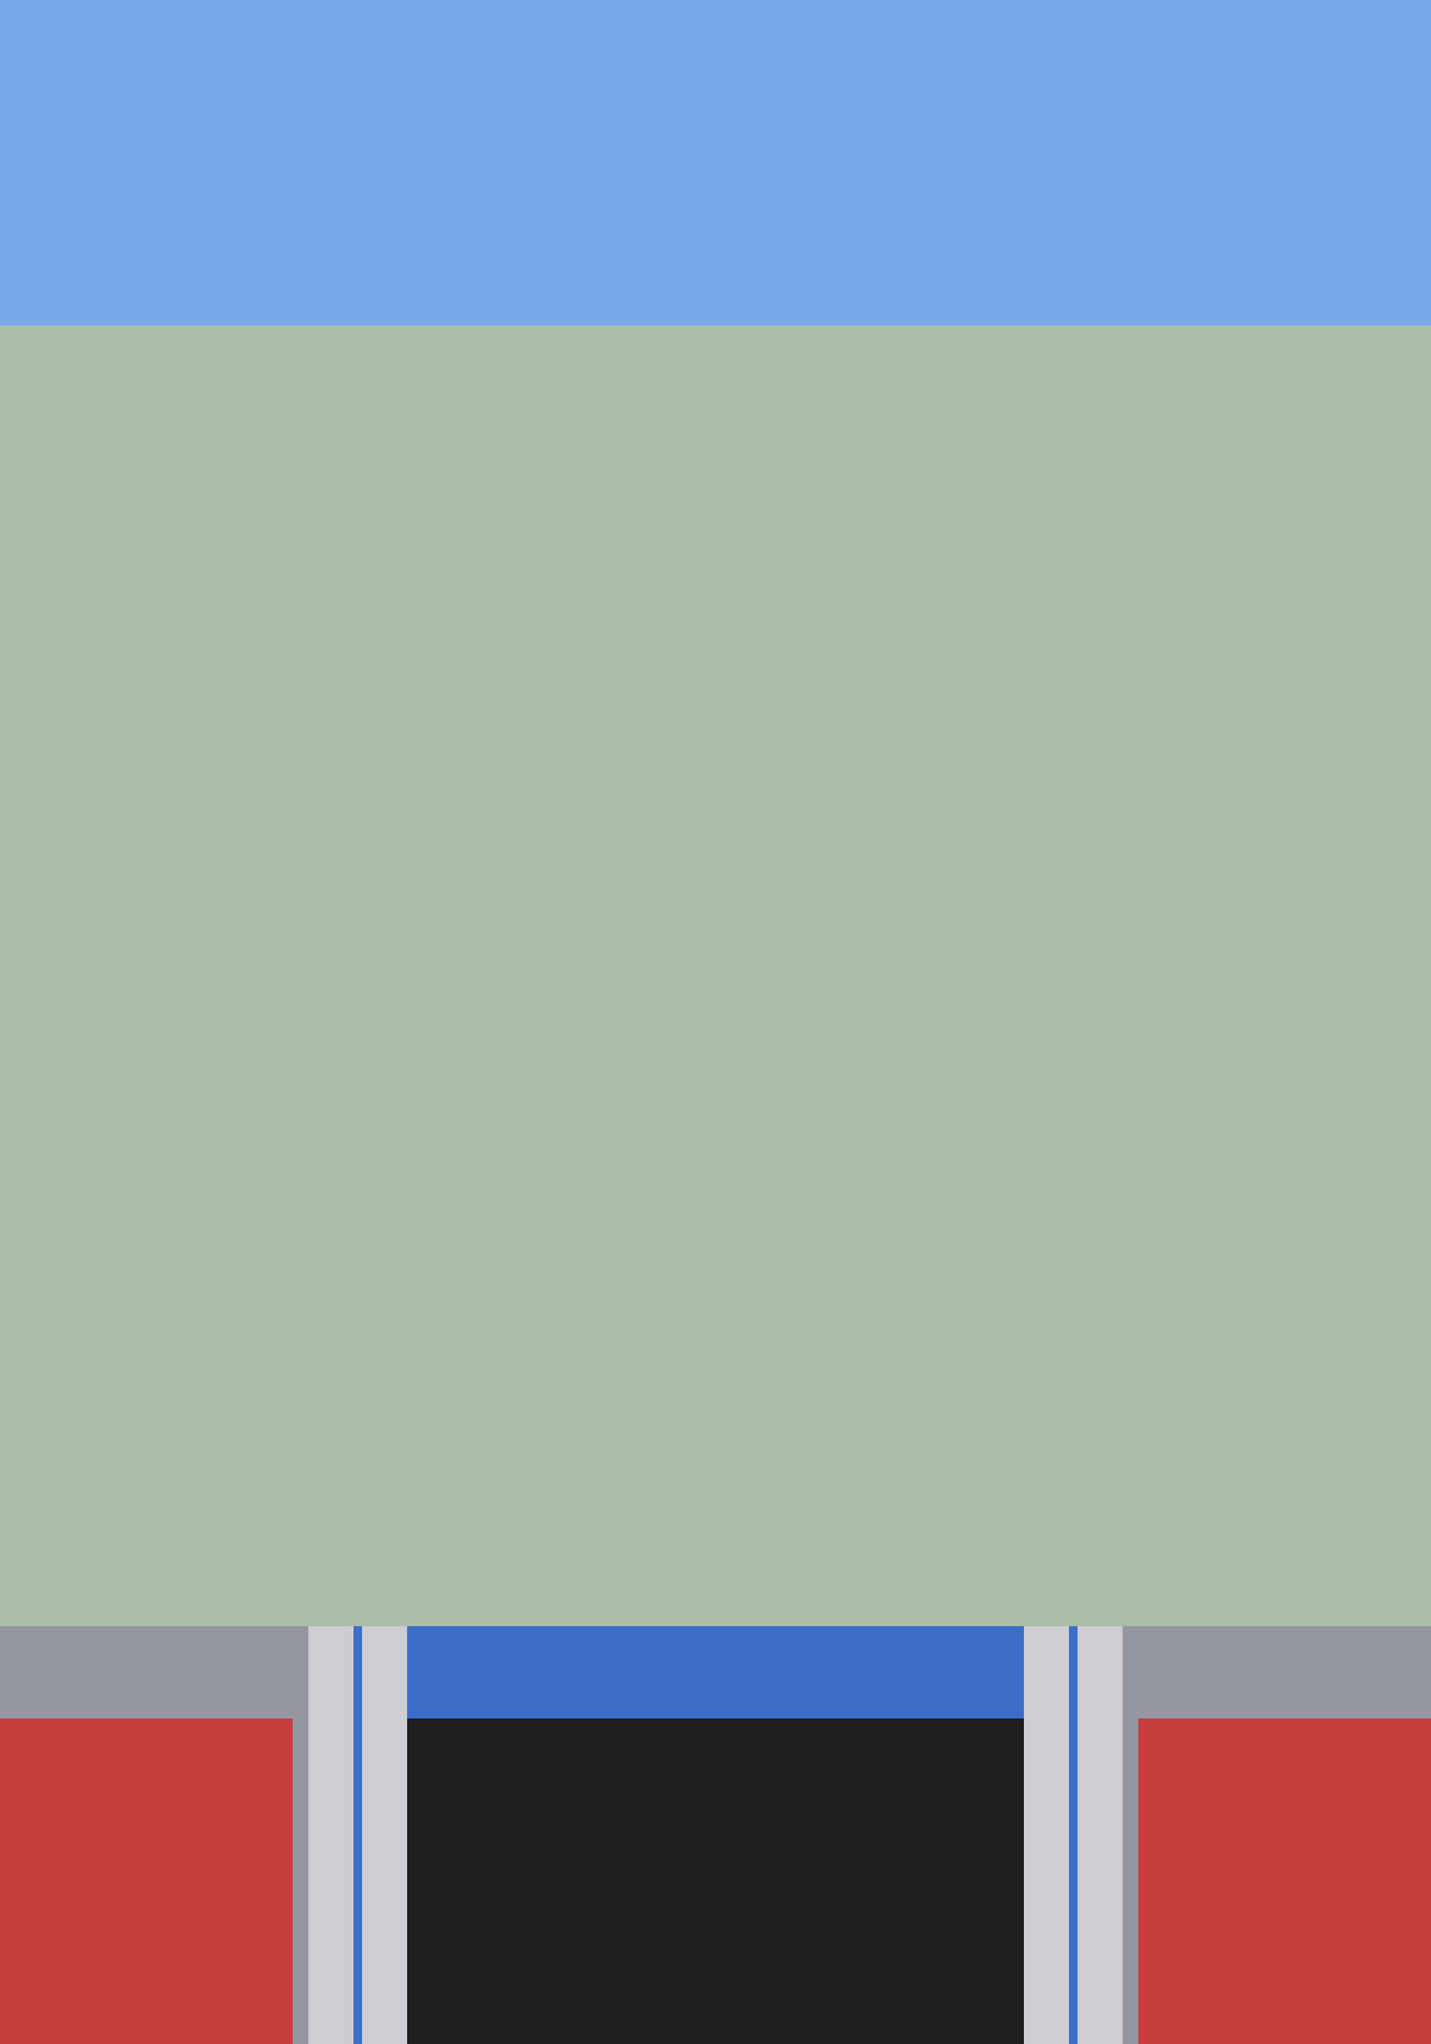
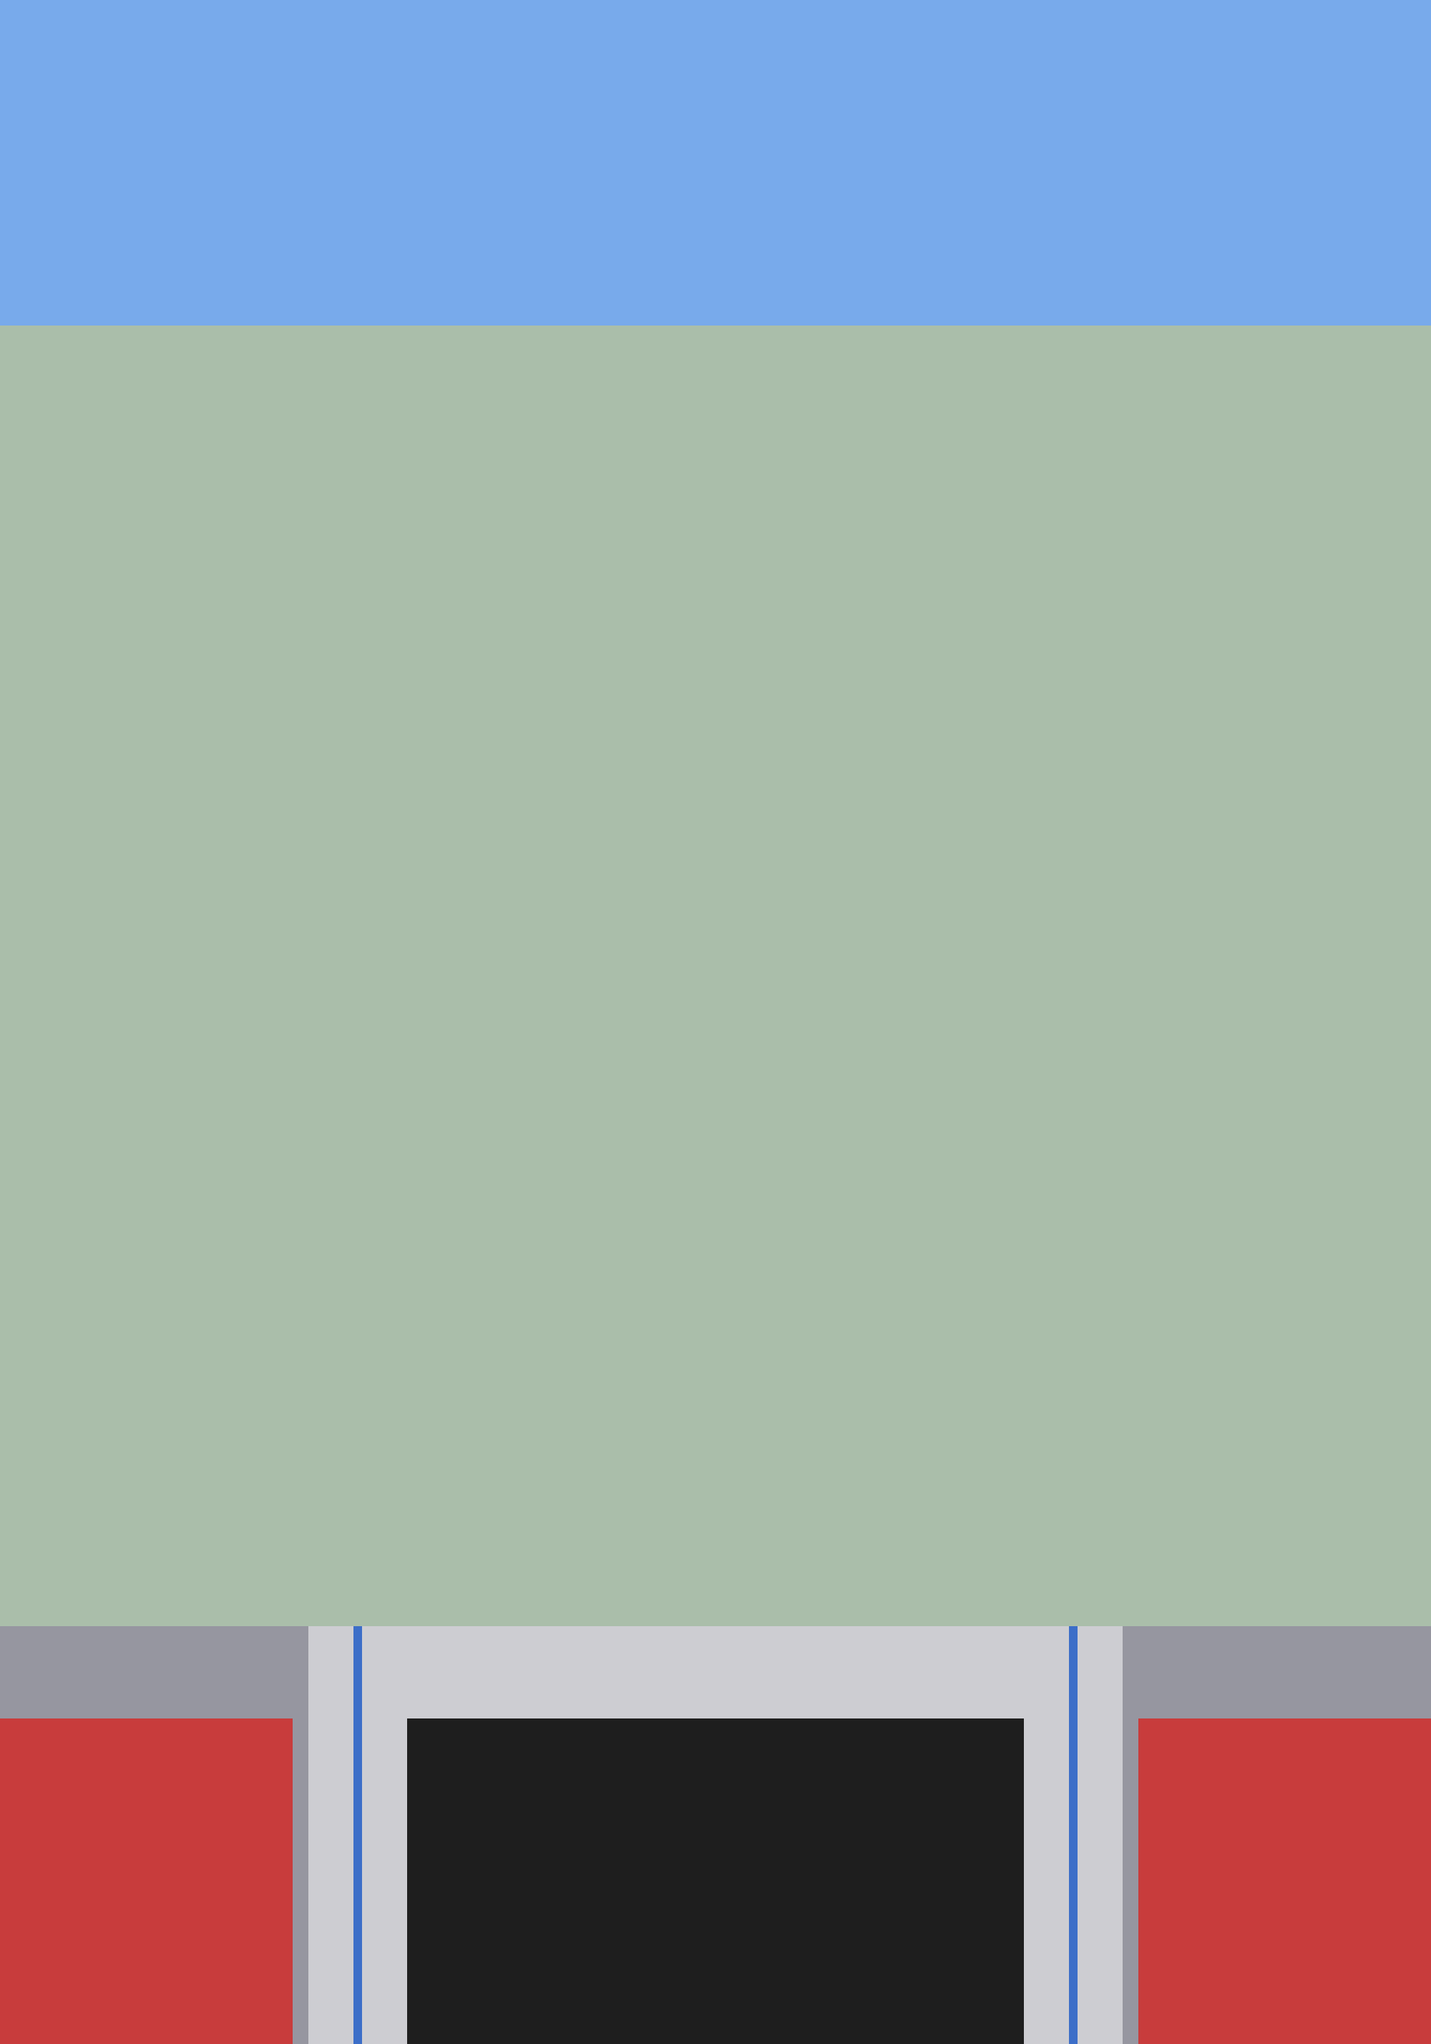
Blade top cladding: 1 cm aluminium, top end only (commit 17)
BLADE_TOP_CLAD = CLAD_EXT (1.0 cm) [MCNP], Kyle confirmed 2026-07-31. Derived
from CLAD_EXT, never written as 1.0: it is the same physical centimetre as the
fuel plates' unfueled extension, so decoupling them later is a one-line change.

Material is aluminum_structure — the same object the control-element guide
plates and sliders already use, since the blade clad is part of that assembly.
It inherits c_Al27 at 330.7 K automatically. NOTE FOR TALLIES AND FIGURES: any
tally or figure keyed on aluminum_structure now includes the blade top clad.

Side and bottom cladding remain ABSENT BY CONFIRMATION, not omission:
ABSORBER_SIDE_WATER (0.005 cm film each side) and the [-31,-30] slot water are
unchanged.

f = 1.0 boundary: no change required, and none made. It is the B4C that touches
z = +90 when fully withdrawn, not the aluminium; the clad extends past the model
top and is clipped away exactly as the cap already was. B4C stays 60 cm,
ROD_TRAVEL stays 60, and the existing pin

  -HALF_Z + 1.0 * ROD_TRAVEL + BLADE_LENGTH == CORE_TOP

is correct as written and untouched.

Geometry at checkpoints, verified against the specification:
  f = 0.0     B4C [-30,+30]   clad [+30,+31]   cap [+31,+45]
  f = 0.5     B4C [  0,+60]   clad [+60,+61]   cap [+61,+75]
  f = 0.98333 B4C [+29,+89]   clad [+89,+90]   cap clipped
  f = 0.99    B4C [+29.4,+89.4] clad [+89.4,+90] cap clipped
  f = 1.0     B4C [+30,+90]   clad clipped     cap clipped
Bottom end at all f: water, no clad, as built.
[…]

Changed region(s): [[0.279, 0.7788, 0.713, 0.8411]]

diff --git a/model/geometry.py b/model/geometry.py
@@ -44,15 +44,17 @@ Control blade model — fixed-length sliding absorber:
     withdrawn_fraction f in [0, 1]:
         z_bot = -30 + f * 60   → f=0: -30,  f=1: +30
         z_top = z_bot + 60     → f=0: +30,  f=1: +90 (= CORE_TOP at f=1)
-    b4c fills the absorber-slot x/y band for z in [z_bot, z_top]. An ENDBOX_HEIGHT
-    (14 cm) homogenized (end_box_homog) end-box cap rides above the blade in
-    the blade's own slot footprint, with its bottom at
-    max(z_top, HALF_PLATE_Z) — see the A4 note in the control-element section.
-    At f=0 the cap sits at [+31,+45], COPLANAR with the surrounding end-boxes
-    (2026-07-20 decision), and the 1 cm slot band [+30,+31] between the blade
-    top and the cap is core coolant water. At f=1 the blade top coincides with
-    CORE_TOP (z_top == +90), so the cap is pushed entirely out of the model and
-    is NOT created — the blade itself fills the slot to the top.
+    b4c fills the absorber-slot x/y band for z in [z_bot, z_top]. A
+    BLADE_TOP_CLAD (1 cm) aluminum clad rides directly on the B4C (top end
+    only — side and bottom clad are absent by confirmation), and an
+    ENDBOX_HEIGHT (14 cm) homogenized (end_box_homog) end-box cap rides on
+    the CLAD. Both fill the slot footprint and clip at CORE_TOP. At f=0 the
+    stack is B4C [-30,+30], clad [+30,+31], cap [+31,+45] — the cap COPLANAR
+    with the surrounding end-boxes falls out of BLADE_TOP_CLAD == CLAD_EXT
+    (2026-07-31; supersedes the A4 Option B water band, which the clad now
+    fills). At f=1 the B4C top coincides with CORE_TOP (z_top == +90) — it is
+    the B4C, not the aluminum, that touches the boundary — and clad and cap
+    are clipped entirely out of the model.
     Plate/clad, structural and channel cells run the full plate height
     z=[-31, +31]; only the fuel meat is restricted to z=[-30, +30].
     End-box/water cells cover z outside [-31, +31].
@@ -202,6 +204,16 @@ assert abs(HALF_PLATE_Z - (HALF_Z + CLAD_EXT)) < 1e-12, \
 
 BLADE_LENGTH     = 60.0    # cm — rigid absorber blade (fixed length, translates in z)
 ROD_TRAVEL       = 60.0    # cm — full stroke
+
+# Blade TOP cladding — aluminum riding on the B4C, part of the blade assembly.
+# [MCNP] Kyle confirmed 2026-07-31: 1.0 cm, TOP END ONLY (side and bottom clad
+# are absent by confirmation, not omission). Derived from CLAD_EXT because it
+# is the same physical 1 cm as the fuel plates' unfueled extension — if Kyle
+# later decouples them, this is a one-line change. Never written as 1.0.
+# The B4C itself stays BLADE_LENGTH = 60 and ROD_TRAVEL stays 60: it is the
+# B4C that touches CORE_TOP at f=1, and the clad above it clips away at the
+# model boundary exactly as the cap does.
+BLADE_TOP_CLAD   = CLAD_EXT   # 1.0 cm [MCNP]
 CORE_TOP         = +90.0   # cm — vacuum boundary; COINCIDES with the fully-withdrawn
                             # (f=1) blade top (z_top = -30 + 60 + 60 = +90). No cap above.
 CORE_BOTTOM      = -90.0   # cm — vacuum boundary; symmetric with CORE_TOP
@@ -608,10 +620,10 @@ def make_standard_fuel_element(elem_id, element_id=None, zoned=False):
 #   b4c fills the absorber-slot x/y band for z in [z_bot, z_top] across the full
 #   model height. Below z_bot, water fills the slot down to the plate bottom
 #   (-31) — the blade never dips below z=-30, so the lower end-box/water are
-#   uniform material with no reserved slot at all. Above z_top, the slot's own
-#   material is region-appropriate (coolant up to +31 if the blade is below
-#   it, then the 14 cm cap, then water to CORE_TOP); at f=1, z_top == CORE_TOP
-#   so that complement is zero-measure (no cap).
+#   uniform material with no reserved slot at all. Above z_top the assembly
+#   stack rides with the blade: BLADE_TOP_CLAD (1 cm) aluminum clad, then the
+#   14 cm cap riding on the clad, then water to CORE_TOP — each clipped at
+#   CORE_TOP; at f=1, z_top == CORE_TOP so clad and cap are both clipped away.
 #   All guide/slider/fuel/channel cells are bounded to the PLATE height
 #   z=[-31, +31]; only the fuel meat stops at z=[-30, +30]; end-box/water cells
 #   fill z outside [-31, +31].
@@ -954,40 +966,63 @@ def make_control_fuel_element(elem_id, withdrawn_fraction=0.0,
     #
     # No lower-side counterpart is needed: blade_z_bot is always >= -HALF_Z
     # (asserted above), so the blade never reaches the lower end-box/water.
+    #
+    # ── Blade top clad + moving cap (commit 17, 2026-07-31) ────────────────
+    # A BLADE_TOP_CLAD (1 cm) aluminum clad rides directly on the B4C, and the
+    # ENDBOX_HEIGHT (14 cm) end_box_homog cap rides on the CLAD, not the B4C.
+    # Both fill the full slot footprint and both clip at CORE_TOP:
+    #   f = 0.0   B4C [-30,+30]  clad [+30,+31]  cap [+31,+45]
+    #   f = 0.5   B4C [  0,+60]  clad [+60,+61]  cap [+61,+75]
+    #   f = 1.0   B4C [+30,+90]  clad clipped    cap clipped
+    # Clad is partially clipped for f > 59/60, gone at f = 1.0; the cap is
+    # fully gone for f >= 59/60 (cap bottom z_top + 1 reaches CORE_TOP).
+    #
+    # The Option B max(z_top, HALF_PLATE_Z) cap-floor guard (A4) is DROPPED,
+    # not kept as a dead branch: the cap bottom is now z_top + BLADE_TOP_CLAD
+    # = HALF_Z + f*ROD_TRAVEL + CLAD_EXT = 31 + 60f >= 31 for all f >= 0, with
+    # equality at f = 0 — the coplanarity the guard protected now falls out of
+    # the arithmetic (BLADE_TOP_CLAD == CLAD_EXT is exactly the 1 cm the A4
+    # water band used to fill). The assert below keeps the invariant loud if
+    # BLADE_TOP_CLAD is ever decoupled from CLAD_EXT and shrunk.
     if z_top < CORE_TOP:
-        cap_bot_z = max(z_top, HALF_PLATE_Z)
-        # Cap top is always >= ENDBOX_ABOVE_TOP, so the water above the cap
-        # never encroaches on the end-box band [+31,+45].
-        assert cap_bot_z + ENDBOX_HEIGHT >= ENDBOX_ABOVE_TOP, (
-            f"ctrl{elem_id}: cap top {cap_bot_z + ENDBOX_HEIGHT:.2f} < "
-            f"ENDBOX_ABOVE_TOP {ENDBOX_ABOVE_TOP} — cap would not clear the "
-            f"end-box band")
-        blade_cap_bot = openmc.ZPlane(z0=cap_bot_z)
-        blade_cap_top = openmc.ZPlane(z0=min(cap_bot_z + ENDBOX_HEIGHT, CORE_TOP))
-
-        # Coolant in the slot between the blade top and the cap floor. Empty
-        # (zero-measure) whenever the blade has been withdrawn past +31.
-        if cap_bot_z > z_top:
-            cells.append(openmc.Cell(
-                name=f'ctrl{elem_id}_slot_b_water_under_cap', fill=water_core,
-                region=slot_b & +blade_z_top & -blade_cap_bot))
-            cells.append(openmc.Cell(
-                name=f'ctrl{elem_id}_slot_t_water_under_cap', fill=water_core,
-                region=slot_t & +blade_z_top & -blade_cap_bot))
-
+        blade_clad_top = openmc.ZPlane(
+            z0=min(z_top + BLADE_TOP_CLAD, CORE_TOP))
         cells.append(openmc.Cell(
-            name=f'ctrl{elem_id}_blade_cap_slot_b', fill=end_box_homog,
-            region=slot_b & +blade_cap_bot & -blade_cap_top))
+            name=f'ctrl{elem_id}_blade_clad_slot_b', fill=aluminum,
+            region=slot_b & +blade_z_top & -blade_clad_top))
         cells.append(openmc.Cell(
-            name=f'ctrl{elem_id}_blade_cap_slot_t', fill=end_box_homog,
-            region=slot_t & +blade_cap_bot & -blade_cap_top))
-        if blade_cap_top.z0 < CORE_TOP:
+            name=f'ctrl{elem_id}_blade_clad_slot_t', fill=aluminum,
+            region=slot_t & +blade_z_top & -blade_clad_top))
+
+        if blade_clad_top.z0 < CORE_TOP:
+            cap_bot_z = blade_clad_top.z0   # cap rides on the clad
+            assert cap_bot_z >= HALF_PLATE_Z, (
+                f"ctrl{elem_id}: cap bottom {cap_bot_z:.2f} < HALF_PLATE_Z "
+                f"{HALF_PLATE_Z} — BLADE_TOP_CLAD no longer reaches the "
+                f"end-box floor at full insertion (decoupled from CLAD_EXT?)")
+            # Cap top is always >= ENDBOX_ABOVE_TOP, so the water above the
+            # cap never encroaches on the end-box band [+31,+45].
+            assert cap_bot_z + ENDBOX_HEIGHT >= ENDBOX_ABOVE_TOP, (
+                f"ctrl{elem_id}: cap top {cap_bot_z + ENDBOX_HEIGHT:.2f} < "
+                f"ENDBOX_ABOVE_TOP {ENDBOX_ABOVE_TOP} — cap would not clear "
+                f"the end-box band")
+            # Reuse blade_clad_top as the cap floor — one plane, no coincident
+            # duplicate surface.
+            blade_cap_top = openmc.ZPlane(
+                z0=min(cap_bot_z + ENDBOX_HEIGHT, CORE_TOP))
             cells.append(openmc.Cell(
-                name=f'ctrl{elem_id}_water_above_cap_slot_b', fill=water,
-                region=slot_b & +blade_cap_top & -_z_model_top))
+                name=f'ctrl{elem_id}_blade_cap_slot_b', fill=end_box_homog,
+                region=slot_b & +blade_clad_top & -blade_cap_top))
             cells.append(openmc.Cell(
-                name=f'ctrl{elem_id}_water_above_cap_slot_t', fill=water,
-                region=slot_t & +blade_cap_top & -_z_model_top))
+                name=f'ctrl{elem_id}_blade_cap_slot_t', fill=end_box_homog,
+                region=slot_t & +blade_clad_top & -blade_cap_top))
+            if blade_cap_top.z0 < CORE_TOP:
+                cells.append(openmc.Cell(
+                    name=f'ctrl{elem_id}_water_above_cap_slot_b', fill=water,
+                    region=slot_b & +blade_cap_top & -_z_model_top))
+                cells.append(openmc.Cell(
+                    name=f'ctrl{elem_id}_water_above_cap_slot_t', fill=water,
+                    region=slot_t & +blade_cap_top & -_z_model_top))
 
     # ── 17-plate fuel follower (active zone only) ───────────────────────────
 
@@ -1721,11 +1756,13 @@ def _run_point_checks(geom, f):
 def _run_blade_slot_checks(geom, f):
     """Point-containment assertions down a control element's absorber slot.
 
-    This is the A4 (Option B) check. At full insertion the blade top is at +30
-    but the end-box floor is at +31, so the slot must read:
-        blade -> 1 cm coolant -> 14 cm cap (coplanar at [+31,+45]) -> water.
-    Once the blade is withdrawn past +31 the coolant band closes up and the cap
-    sits directly on the blade top again.
+    Blade assembly stack (commit 17): B4C, then BLADE_TOP_CLAD (1 cm) aluminum
+    riding on it, then the 14 cm cap riding on the clad, then water — clad and
+    cap clipped at CORE_TOP. At full insertion the slot must read:
+        blade -> 1 cm aluminum clad [+30,+31] -> 14 cm cap (coplanar at
+        [+31,+45]) -> water.
+    The clad band is the old A4 Option B water band — the fig3 defect — and
+    must now return aluminum, not water.
     """
     row, col = _first_position('C')          # first control element (C2)
     ex, ey = _lattice_center(row, col)
@@ -1740,18 +1777,18 @@ def _run_blade_slot_checks(geom, f):
     z_top = z_bot + BLADE_LENGTH
 
     def want_at(z):
-        """Material the slot should carry at height z, per the A4 resolution."""
+        """Material the slot should carry at height z (mirrors the builder)."""
         if z < z_bot:
             return water_core          # slot below the blade, down to −31
         if z < z_top:
             return b4c                 # the blade itself
         if z >= CORE_TOP:
             return None
-        cap_bot = max(z_top, HALF_PLATE_Z)
-        if z < cap_bot:
-            return water_core          # A4: coolant between blade top and cap
-        if z < min(cap_bot + ENDBOX_HEIGHT, CORE_TOP):
-            return end_box_homog       # the 14 cm cap
+        clad_top = min(z_top + BLADE_TOP_CLAD, CORE_TOP)
+        if z < clad_top:
+            return aluminum            # blade top clad riding on the B4C
+        if z < min(clad_top + ENDBOX_HEIGHT, CORE_TOP):
+            return end_box_homog       # the 14 cm cap riding on the clad
         return water                   # bulk water above the cap
 
     probes = [-31.0 + CLAD_EXT / 2.0, -HALF_Z / 2.0, 0.0, HALF_Z / 2.0,
@@ -1767,15 +1804,22 @@ def _run_blade_slot_checks(geom, f):
         assert got == want.name, \
             f"f={f}: absorber slot at z={z} is '{got}', expected '{want.name}'"
 
-    # A4 explicitly: at full insertion the cap must be coplanar with the
-    # surrounding end-boxes, and the 1 cm band below it must be coolant.
+    # Commit 17 explicitly: at full insertion the band [+30,+31] must be the
+    # aluminum top clad (the fig3 defect — previously water), the cap must be
+    # coplanar with the surrounding end-boxes, water above.
     if f == 0.0:
-        assert _material_at(geom, px, py, HALF_Z + CLAD_EXT / 2.0) == water_core.name, \
-            "A4: slot band [+30,+31] at f=0 must be core coolant water"
+        assert _material_at(geom, px, py, HALF_Z + BLADE_TOP_CLAD / 2.0) == aluminum.name, \
+            "blade top clad: slot band [+30,+31] at f=0 must be aluminum (fig3 defect)"
         assert _material_at(geom, px, py, ENDBOX_ABOVE_TOP - 0.5) == end_box_homog.name, \
-            "A4: cap must reach ENDBOX_ABOVE_TOP at f=0 (coplanar with end-boxes)"
+            "cap must reach ENDBOX_ABOVE_TOP at f=0 (coplanar with end-boxes)"
         assert _material_at(geom, px, py, ENDBOX_ABOVE_TOP + 0.5) == water.name, \
-            "A4: cap must stop at ENDBOX_ABOVE_TOP at f=0, water above"
+            "cap must stop at ENDBOX_ABOVE_TOP at f=0, water above"
+
+    # At full withdrawal it is the B4C that touches the model top: absorber at
+    # z=89.5 with nothing above it (clad and cap clipped away entirely).
+    if f == 1.0:
+        assert _material_at(geom, px, py, CORE_TOP - 0.5) == b4c.name, \
+            "f=1: B4C must reach CORE_TOP (z=89.5 probe) — clad clips, B4C does not"
 
     # B3 — the blade is ABSORBER_WIDTH (6.630) wide inside an ACTIVE_STACK_X
     # (6.640) slot. At the blade's own mid-height the centreline must be
@@ -1917,6 +1961,22 @@ if __name__ == '__main__':
     print("Overlap check (f=0.5) passed: no cell overlaps detected.")
     _run_point_checks(geometry_f05, 0.5)
     _run_blade_slot_checks(geometry_f05, 0.5)
+
+    # f=0.99 exercises the clipping band commit 17 introduced: for
+    # f > 59/60 (~0.98333) the cap is fully clipped away but the clad is only
+    # PARTIALLY clipped (here [89.4, 90]). Nothing else in the test set
+    # produces a partially-clipped clad with no cap above it — this is where
+    # undefined space would hide.
+    geometry_f099 = build_core_geometry(withdrawn_fraction=0.99)
+    debug_model_f099 = openmc.Model(
+        geometry=geometry_f099, materials=_materials, settings=_settings
+    )
+    with tempfile.TemporaryDirectory() as _debug_dir_f099:
+        debug_model_f099.run(geometry_debug=True, cwd=_debug_dir_f099)
+    print("Overlap check (f=0.99) passed: no cell overlaps detected "
+          "(partially-clipped clad, cap fully clipped).")
+    _run_point_checks(geometry_f099, 0.99)
+    _run_blade_slot_checks(geometry_f099, 0.99)
 
     # f=1.0 exercises the degenerate case introduced by the axial resize:
     # blade_z_top == CORE_TOP exactly (three coincident ZPlane objects at the
